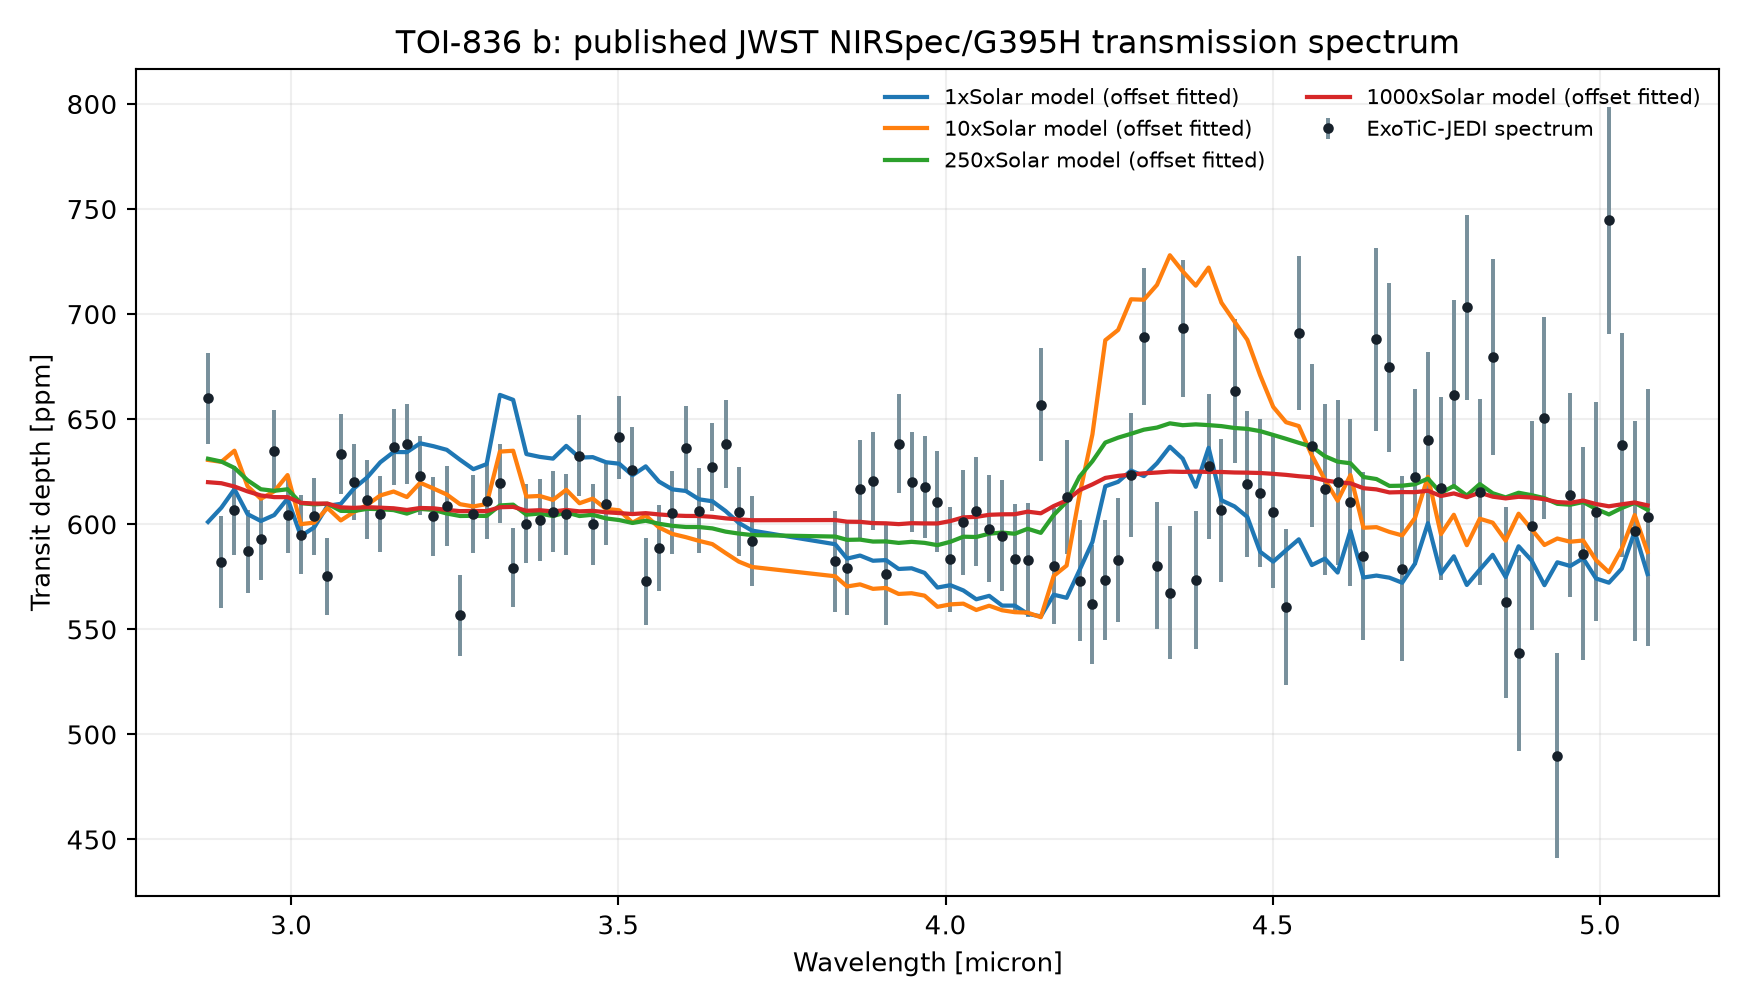
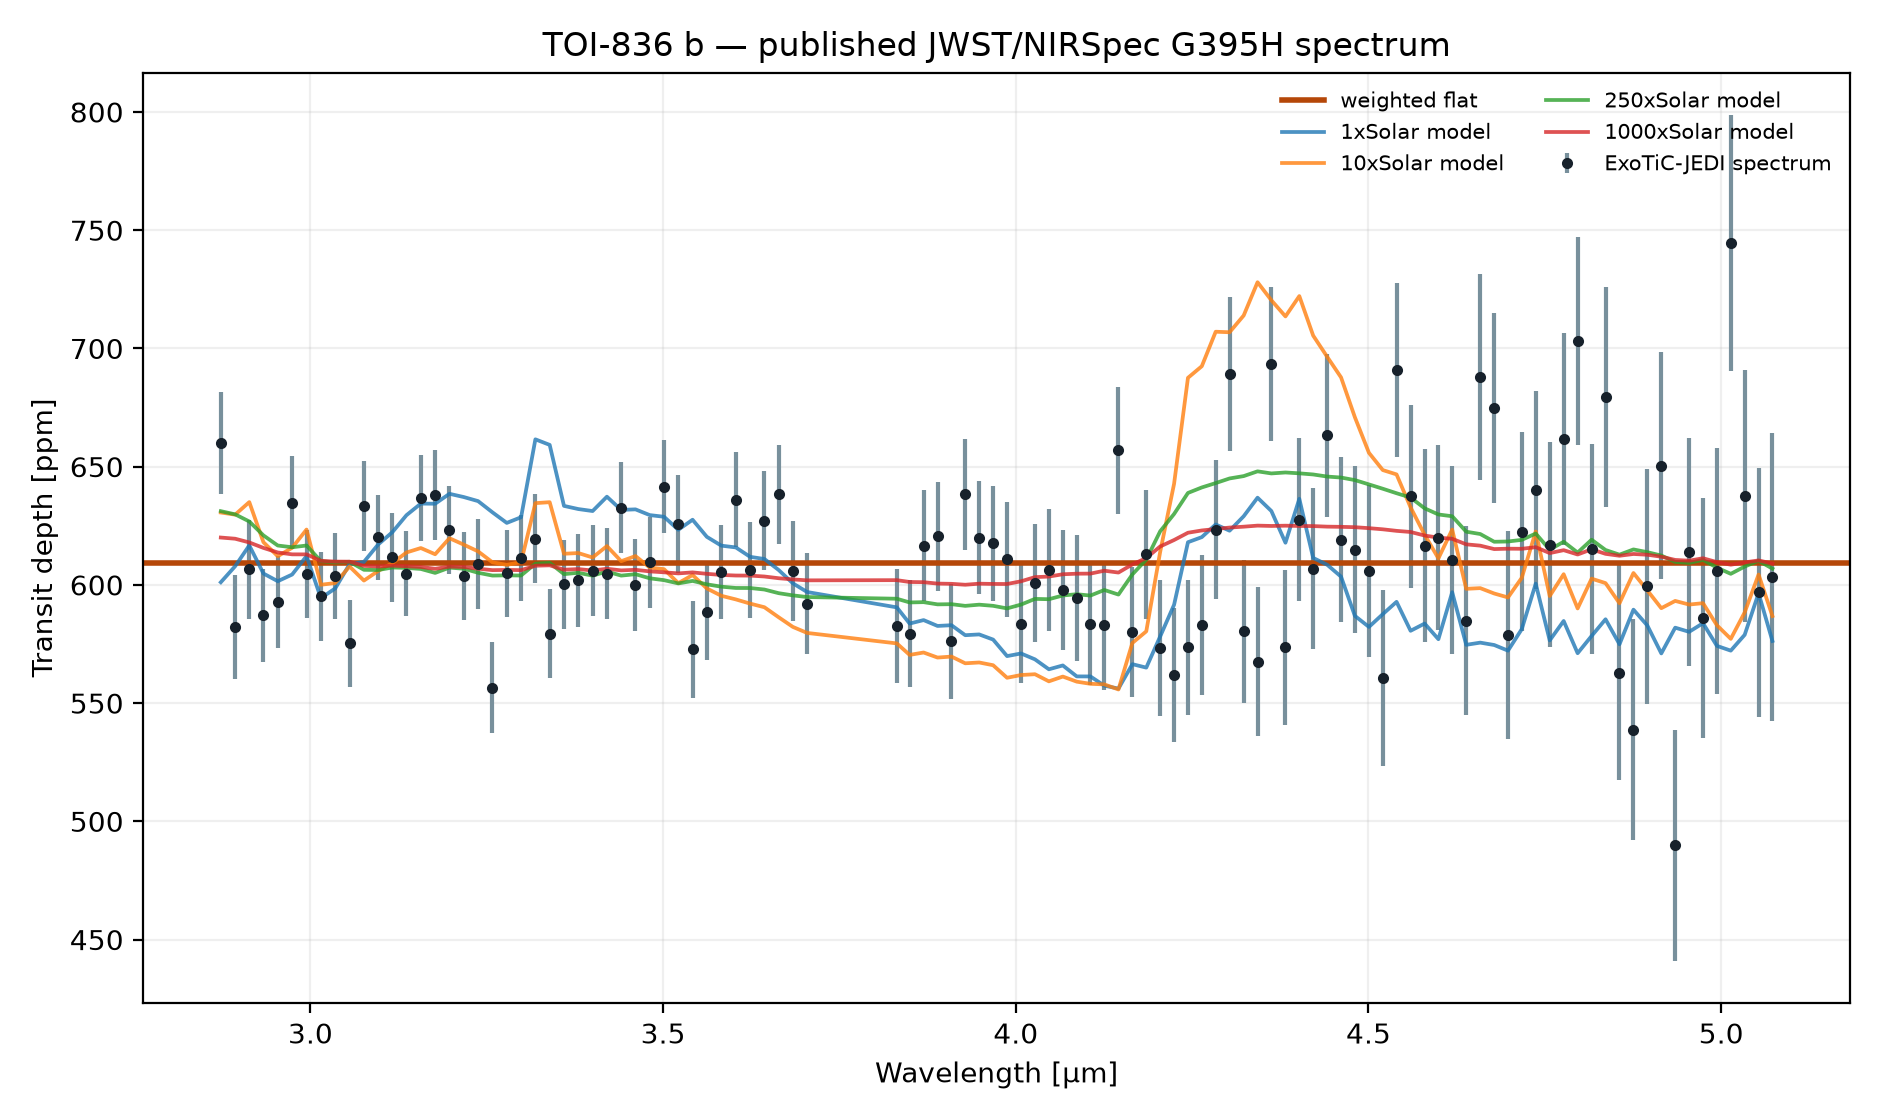
feat: quantify TOI-836 b spectrum sensitivity

diff --git a/scripts/analyze_spectrum.py b/scripts/analyze_spectrum.py
@@ -1,70 +1,162 @@
+"""Reproduce transparent, assumption-limited tests of the published spectrum.
+
+The archive supplies one-dimensional depths, marginal uncertainties, and four
+forward models. No wavelength covariance matrix is supplied, so every test
+below is conditional on independent Gaussian bin errors. The literature's
+model metadata are preserved rather than silently re-derived.
+"""
+
 from __future__ import annotations
+
 import csv
+import json
 from pathlib import Path
+
 import matplotlib
+
 matplotlib.use("Agg")
 import matplotlib.pyplot as plt
 import numpy as np
+import xarray as xr
+from scipy.optimize import minimize_scalar
 from scipy.stats import chi2
 
 ROOT = Path(__file__).resolve().parents[1]
-DATA = ROOT / "data" / "spectra"
+DATA_FILE = ROOT / "data" / "spectra" / "SpectraFigureData83602.nc"
 FIGURES = ROOT / "figures"
 STATS_FILE = FIGURES / "spectrum_statistics.csv"
+DIAGNOSTICS_FILE = FIGURES / "spectrum_diagnostics.csv"
+FIGURE_FILE = FIGURES / "toi836b_published_spectrum.png"
+DIAGNOSTIC_FIGURE = FIGURES / "toi836b_spectrum_residuals.png"
+MODEL_NAMES = ("1xSolar", "10xSolar", "250xSolar", "1000xSolar")
 
-def flat_test(values, errors):
+
+def _clean(values, errors):
     values, errors = np.asarray(values, float), np.asarray(errors, float)
     good = np.isfinite(values) & np.isfinite(errors) & (errors > 0)
-    values, errors = values[good], errors[good]
+    return values[good], errors[good]
+
+
+def flat_test(values, errors):
+    values, errors = _clean(values, errors)
     weights = 1 / errors**2
-    mean = np.sum(weights * values) / np.sum(weights)
-    statistic = np.sum(((values - mean) / errors)**2)
+    mean = float(np.sum(weights * values) / np.sum(weights))
+    residual = values - mean
+    statistic = float(np.sum((residual / errors) ** 2))
     dof = len(values) - 1
     return {"n": len(values), "mean": mean, "chi2": statistic, "dof": dof,
-            "p": chi2.sf(statistic, dof)}
+            "reduced_chi2": statistic / dof, "p": float(chi2.sf(statistic, dof)),
+            "max_abs_standardized_residual": float(np.max(np.abs(residual / errors)))}
 
-def offset_model_test(wavelength, values, errors, model_wavelength, model_values):
-    model = np.interp(wavelength, model_wavelength, model_values)
+
+def offset_model_test(values, errors, model_values):
+    values, errors = _clean(values, errors)
+    model = np.asarray(model_values, float)
+    if model.shape != values.shape or not np.all(np.isfinite(model)):
+        raise ValueError("Model and valid spectrum bins must have identical finite shapes")
     weights = 1 / errors**2
-    offset = np.sum(weights * (values - model)) / np.sum(weights)
-    statistic = np.sum(((values - model - offset) / errors)**2)
+    offset = float(np.sum(weights * (values - model)) / np.sum(weights))
+    fitted = model + offset
+    statistic = float(np.sum(((values - fitted) / errors) ** 2))
     dof = len(values) - 1
-    return {"n": len(values), "offset": offset, "chi2": statistic,
-            "dof": dof, "p": chi2.sf(statistic, dof), "model": model + offset}
+    return {"n": len(values), "offset": offset, "chi2": statistic, "dof": dof,
+            "reduced_chi2": statistic / dof, "p": float(chi2.sf(statistic, dof)),
+            "model": fitted}
 
-def write_rows(rows):
+
+def leave_one_out_flat(values, errors):
+    """Measure how much the flat-spectrum p-value depends on any one bin."""
+    values, errors = _clean(values, errors)
+    tests = [flat_test(np.delete(values, i), np.delete(errors, i)) for i in range(len(values))]
+    probabilities = np.asarray([test["p"] for test in tests])
+    return {"p_min": float(probabilities.min()), "p_max": float(probabilities.max()),
+            "p_median": float(np.median(probabilities))}
+
+
+def intrinsic_scatter_mle(values, errors):
+    """Fit a non-negative extra-scatter term under an independent normal model."""
+    values, errors = _clean(values, errors)
+
+    def objective(jitter):
+        variance = errors**2 + jitter**2
+        weights = 1 / variance
+        mean = np.sum(weights * values) / np.sum(weights)
+        return float(np.sum(np.log(variance) + (values - mean) ** 2 / variance))
+
+    upper = max(float(np.std(values)), float(np.median(errors)) * 5)
+    fit = minimize_scalar(objective, bounds=(0, upper), method="bounded")
+    return float(fit.x)
+
+
+def write_rows(path, rows):
     fields = sorted({key for row in rows for key in row})
-    with STATS_FILE.open("w", newline="", encoding="utf-8") as handle:
+    with path.open("w", newline="", encoding="utf-8") as handle:
         writer = csv.DictWriter(handle, fieldnames=fields)
-        writer.writeheader(); writer.writerows(rows)
+        writer.writeheader()
+        writer.writerows(rows)
 
-import xarray as xr
-
-FIGURE_FILE = FIGURES / "toi836b_published_spectrum.png"
 
 def main():
     FIGURES.mkdir(exist_ok=True)
-    with xr.open_dataset(DATA / "SpectraFigureData83602.nc") as dataset:
-        wavelength = dataset.wavelength.values
-        depth = dataset["ExoTiC-JEDI-transit-depth"].values
-        error = dataset["ExoTiC-JEDI-transit-depth-error"].values
-        models = {name: dataset[name].values for name in ("1xSolar", "10xSolar", "250xSolar", "1000xSolar")}
-    flat = flat_test(depth, error); rows = [{"comparison": "weighted flat", **flat}]
+    with xr.open_dataset(DATA_FILE) as dataset:
+        wavelength = np.asarray(dataset.wavelength.values, float)
+        depth = np.asarray(dataset["ExoTiC-JEDI-transit-depth"].values, float)
+        error = np.asarray(dataset["ExoTiC-JEDI-transit-depth-error"].values, float)
+        models = {name: np.asarray(dataset[name].values, float) for name in MODEL_NAMES}
+        source_sigma = json.loads(dataset.attrs["sigma"])
+        source_reduced_chi2 = json.loads(dataset.attrs["chi_square"])
+
+    flat = flat_test(depth, error)
+    loo = leave_one_out_flat(depth, error)
+    jitter = intrinsic_scatter_mle(depth, error)
+    rows = [{"comparison": "weighted flat", **flat}]
     fitted = {}
     for label, model in models.items():
-        result = offset_model_test(wavelength, depth, error, wavelength, model)
+        result = offset_model_test(depth, error, model)
         rows.append({"comparison": label + " + fitted vertical offset",
-                     **{key: value for key, value in result.items() if key != "model"}})
+                     **{key: value for key, value in result.items() if key != "model"},
+                     "delta_chi2_vs_flat": result["chi2"] - flat["chi2"],
+                     "source_reported_sigma": source_sigma[label],
+                     "source_reported_reduced_chi2": source_reduced_chi2[label]})
         fitted[label] = result["model"]
-    write_rows(rows)
-    fig, ax = plt.subplots(figsize=(9.2, 5.3))
-    ax.errorbar(wavelength, depth, yerr=error, fmt="o", ms=3, color="#17212b", ecolor="#78909c", label="ExoTiC-JEDI spectrum")
-    for label, model in fitted.items(): ax.plot(wavelength, model, lw=1.6, label=label + " model (offset fitted)")
-    ax.set(xlabel="Wavelength [micron]", ylabel="Transit depth [ppm]",
-           title="TOI-836 b: published JWST NIRSpec/G395H transmission spectrum")
-    ax.grid(alpha=.2); ax.legend(frameon=False, fontsize=8, ncol=2); fig.tight_layout()
-    fig.savefig(FIGURE_FILE, dpi=190); plt.close(fig)
-    return {"flat": flat, "rows": rows, "n": len(depth)}
+    write_rows(STATS_FILE, rows)
+    write_rows(DIAGNOSTICS_FILE, [{"assumption": "independent Gaussian wavelength-bin errors",
+                                   "flat_p": flat["p"], "flat_reduced_chi2": flat["reduced_chi2"],
+                                   "loo_p_min": loo["p_min"], "loo_p_median": loo["p_median"],
+                                   "loo_p_max": loo["p_max"], "intrinsic_scatter_mle_ppm": jitter,
+                                   "max_abs_standardized_residual": flat["max_abs_standardized_residual"]}])
+
+    fig, ax = plt.subplots(figsize=(9.4, 5.6))
+    ax.errorbar(wavelength, depth, yerr=error, fmt="o", ms=3, color="#17212b",
+                ecolor="#78909c", label="ExoTiC-JEDI spectrum")
+    ax.axhline(flat["mean"], color="#b54708", lw=2, label="weighted flat")
+    for label, model in fitted.items():
+        ax.plot(wavelength, model, lw=1.35, alpha=.8, label=label + " model")
+    ax.set(xlabel="Wavelength [µm]", ylabel="Transit depth [ppm]",
+           title="TOI-836 b — published JWST/NIRSpec G395H spectrum")
+    ax.grid(alpha=.2); ax.legend(frameon=False, fontsize=7.5, ncol=2); fig.tight_layout()
+    fig.savefig(FIGURE_FILE, dpi=200); plt.close(fig)
+
+    standardized = (depth - flat["mean"]) / error
+    fig, (ax1, ax2) = plt.subplots(1, 2, figsize=(10.2, 4.3), gridspec_kw={"width_ratios": [2.2, 1]})
+    ax1.axhspan(-2, 2, color="#0f766e", alpha=.09, label="±2σ band")
+    ax1.axhline(0, color="#52606d", lw=1)
+    ax1.errorbar(wavelength, standardized, yerr=np.ones_like(error), fmt="o", ms=3,
+                 color="#17212b", ecolor="#a6b2bd")
+    ax1.set(xlabel="Wavelength [µm]", ylabel="Standardized residual", title="Flat-model residuals")
+    ax1.grid(alpha=.18); ax1.legend(frameon=False, fontsize=8)
+    ax2.hist(standardized, bins=12, color="#0f766e", alpha=.82, edgecolor="white")
+    ax2.set(xlabel="Standardized residual", ylabel="Bin count", title="Residual distribution")
+    ax2.grid(axis="y", alpha=.18)
+    fig.suptitle("Diagnostics assume independent Gaussian spectral-bin errors", fontsize=10)
+    fig.tight_layout(); fig.savefig(DIAGNOSTIC_FIGURE, dpi=200); plt.close(fig)
+    return {"flat": flat, "leave_one_out": loo, "intrinsic_scatter_ppm": jitter,
+            "rows": rows, "n": len(depth)}
+
 
 if __name__ == "__main__":
-    result = main(); print(f"TOI-836 b: {result['n']} spectral bins; flat-spectrum p={result['flat']['p']:.3g}")
+    result = main()
+    loo = result["leave_one_out"]
+    print(f"TOI-836 b: {result['n']} bins; flat p={result['flat']['p']:.4f}; "
+          f"leave-one-out p={loo['p_min']:.4f}-{loo['p_max']:.4f}; "
+          f"extra scatter={result['intrinsic_scatter_ppm']:.1f} ppm")

diff --git a/tests/test_provenance.py b/tests/test_provenance.py
@@ -1,0 +1,29 @@
+"""Integrity checks for the exact public artifacts used by the analyses."""
+
+import hashlib
+from pathlib import Path
+
+ROOT = Path(__file__).resolve().parents[1]
+EXPECTED_SHA256 = {
+    "data/tess2019112060037-s0011-0000000440887364-0143-s_lc.fits":
[1 lines of base64/hex data omitted]
+    "data/tess2021118034608-s0038-0000000440887364-0209-s_lc.fits":
[1 lines of base64/hex data omitted]
+    "data/spectra/SpectraFigureData83602.nc":
[1 lines of base64/hex data omitted]
+}
+
+
+def test_archived_inputs_match_declared_checksums():
+    for relative_path, expected in EXPECTED_SHA256.items():
+        path = ROOT / relative_path
+        assert path.is_file(), f"missing archived input: {relative_path}"
+        measured = hashlib.sha256(path.read_bytes()).hexdigest()
+        assert measured == expected, f"checksum mismatch: {relative_path}"
+
+
+def test_source_manifest_names_every_archived_input():
+    manifest = (ROOT / "data" / "SOURCE.md").read_text(encoding="utf-8")
+    for relative_path, checksum in EXPECTED_SHA256.items():
+        assert Path(relative_path).name in manifest
+        assert checksum in manifest

diff --git a/tests/test_spectrum.py b/tests/test_spectrum.py
@@ -1,12 +1,25 @@
 """Reproduction checks for the archived published spectrum."""
 from pathlib import Path
-import numpy as np
+
 import analyze_spectrum as spectrum
+import numpy as np
+
 
 def test_spectrum_analysis_is_finite_and_reproducible():
     result = spectrum.main()
-    assert result["n"] > 5
-    assert result["rows"]
+    assert result["n"] == 106
+    assert len(result["rows"]) == 5
     assert all(np.isfinite(row["chi2"]) and row["dof"] > 0 for row in result["rows"])
-    for path in (spectrum.STATS_FILE, spectrum.FIGURE_FILE):
+    assert 0.05 < result["flat"]["p"] < 0.07
+    assert result["leave_one_out"]["p_min"] > 0.05
+    assert result["leave_one_out"]["p_max"] > result["leave_one_out"]["p_min"]
+    assert 0 <= result["intrinsic_scatter_ppm"] < 15
+    assert [row["source_reported_sigma"] for row in result["rows"][1:]] == [7.5, 8.2, 3.0, 1.7]
+    for path in (spectrum.STATS_FILE, spectrum.DIAGNOSTICS_FILE,
+                 spectrum.FIGURE_FILE, spectrum.DIAGNOSTIC_FIGURE):
         assert Path(path).is_file() and Path(path).stat().st_size > 100
+
+
+def test_invalid_model_shape_fails_closed():
+    with np.testing.assert_raises(ValueError):
+        spectrum.offset_model_test([1, 2], [0.1, 0.1], [1])

diff --git a/scripts/analyze_transit.py b/scripts/analyze_transit.py
@@ -10,11 +10,13 @@ the result is a reproducible diagnostic fit, not a precision global retrieval.
 from __future__ import annotations
 
 import csv
+from itertools import pairwise
 from pathlib import Path
 
-from astropy.io import fits
 import batman
 import matplotlib
+from astropy.io import fits
+
 matplotlib.use("Agg")
 import matplotlib.pyplot as plt
 import numpy as np
@@ -166,7 +168,7 @@ def compare_models(time: np.ndarray, flux: np.ndarray, error: np.ndarray) -> dic
 
 def binned_curve(offset: np.ndarray, flux: np.ndarray, error: np.ndarray, bins: int = 70):
     edges = np.linspace(offset.min(), offset.max(), bins + 1); centers, means, uncertainties = [], [], []
-    for left, right in zip(edges[:-1], edges[1:]):
+    for left, right in pairwise(edges):
         chosen = (offset >= left) & (offset < right)
         if not chosen.any(): continue
         weights = 1 / error[chosen]**2

diff --git a/tests/test_analysis.py b/tests/test_analysis.py
@@ -1,12 +1,13 @@
 """Regression tests for the timing-adjusted real-data transit fit."""
 
 import json
-import numpy as np
+
 import analyze_transit as analysis
+import numpy as np
 
 
 def test_real_fits_loads_and_physical_fit_converges():
-    time, flux, error, clipped = analysis.load_light_curve()
+    time, flux, error, _clipped = analysis.load_light_curve()
     assert len(time) > 100 and np.all(np.isfinite(flux)) and np.all(error > 0)
     result = analysis.compare_models(time, flux, error)
     assert result["fit_success"]

diff --git a/scripts/analyze_multisector.py b/scripts/analyze_multisector.py
@@ -11,15 +11,14 @@ from __future__ import annotations
 import csv
 from pathlib import Path
 
-from astropy.io import fits
 import matplotlib
+from astropy.io import fits
+
 matplotlib.use("Agg")
+import analyze_transit as base
 import matplotlib.pyplot as plt
 import numpy as np
 from scipy.stats import chi2
-
-import analyze_transit as base
-
 
 STATS_FILE = base.FIG_DIR / "multisector_statistics.csv"
 STEM = base.FIGURE_FILE.stem.replace("_tess_transit", "")

diff --git a/scripts/analyze_atmospheric_evidence.py b/scripts/analyze_atmospheric_evidence.py
@@ -11,7 +11,6 @@ from pathlib import Path
 
 import matplotlib.pyplot as plt
 
-
 ROOT = Path(__file__).resolve().parents[1]
 INPUT = ROOT / "data" / "atmospheric_evidence.csv"
 OUTPUT = ROOT / "figures" / "molecular_evidence.png"

diff --git a/tests/test_multisector.py b/tests/test_multisector.py
@@ -2,8 +2,8 @@
 
 from pathlib import Path
 
-import numpy as np
 import analyze_multisector as multi
+import numpy as np
 
 
 def test_all_committed_spoc_files_are_accounted_for():
